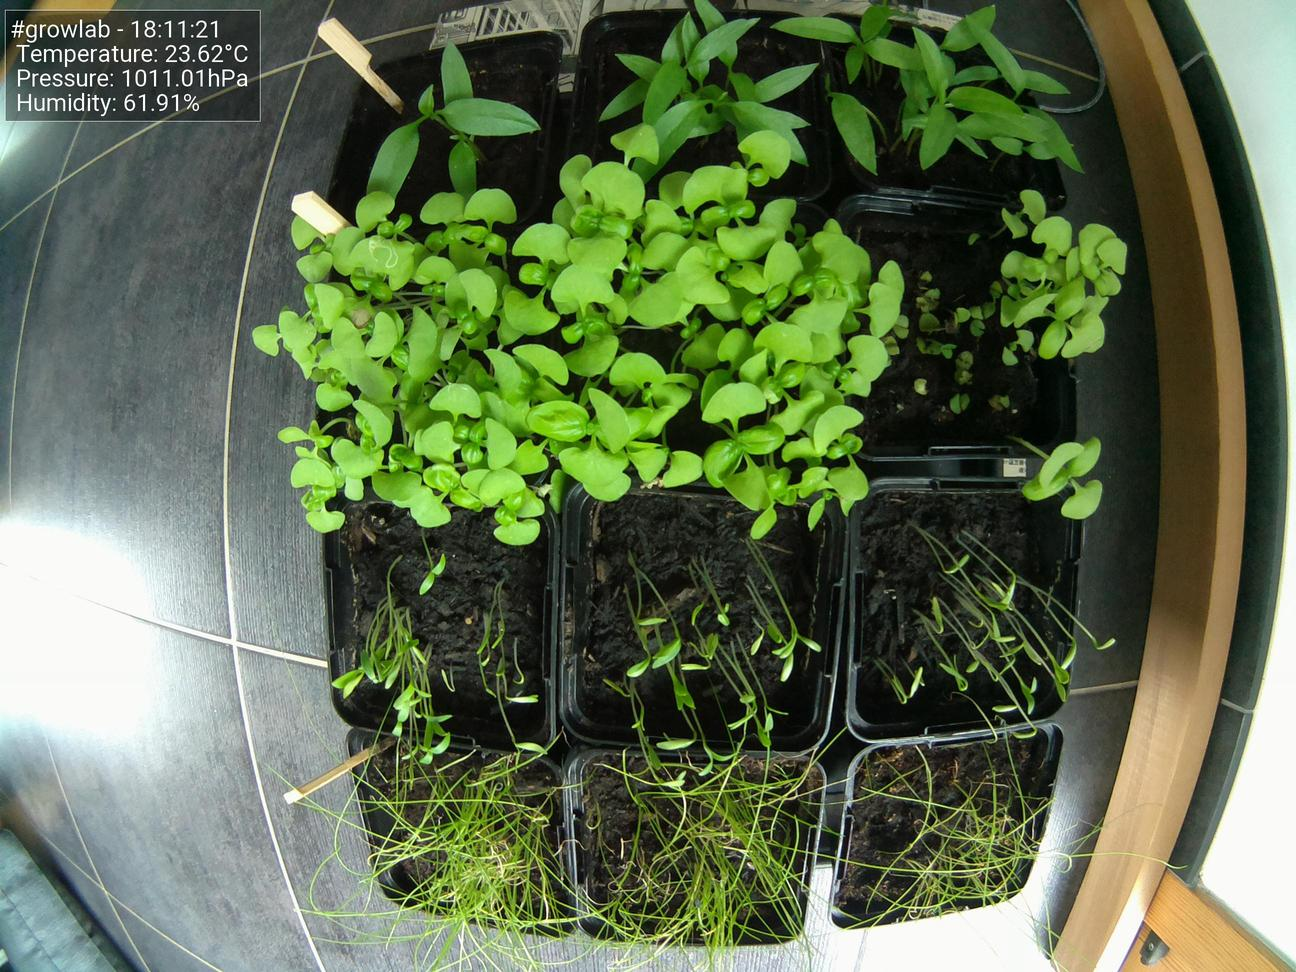
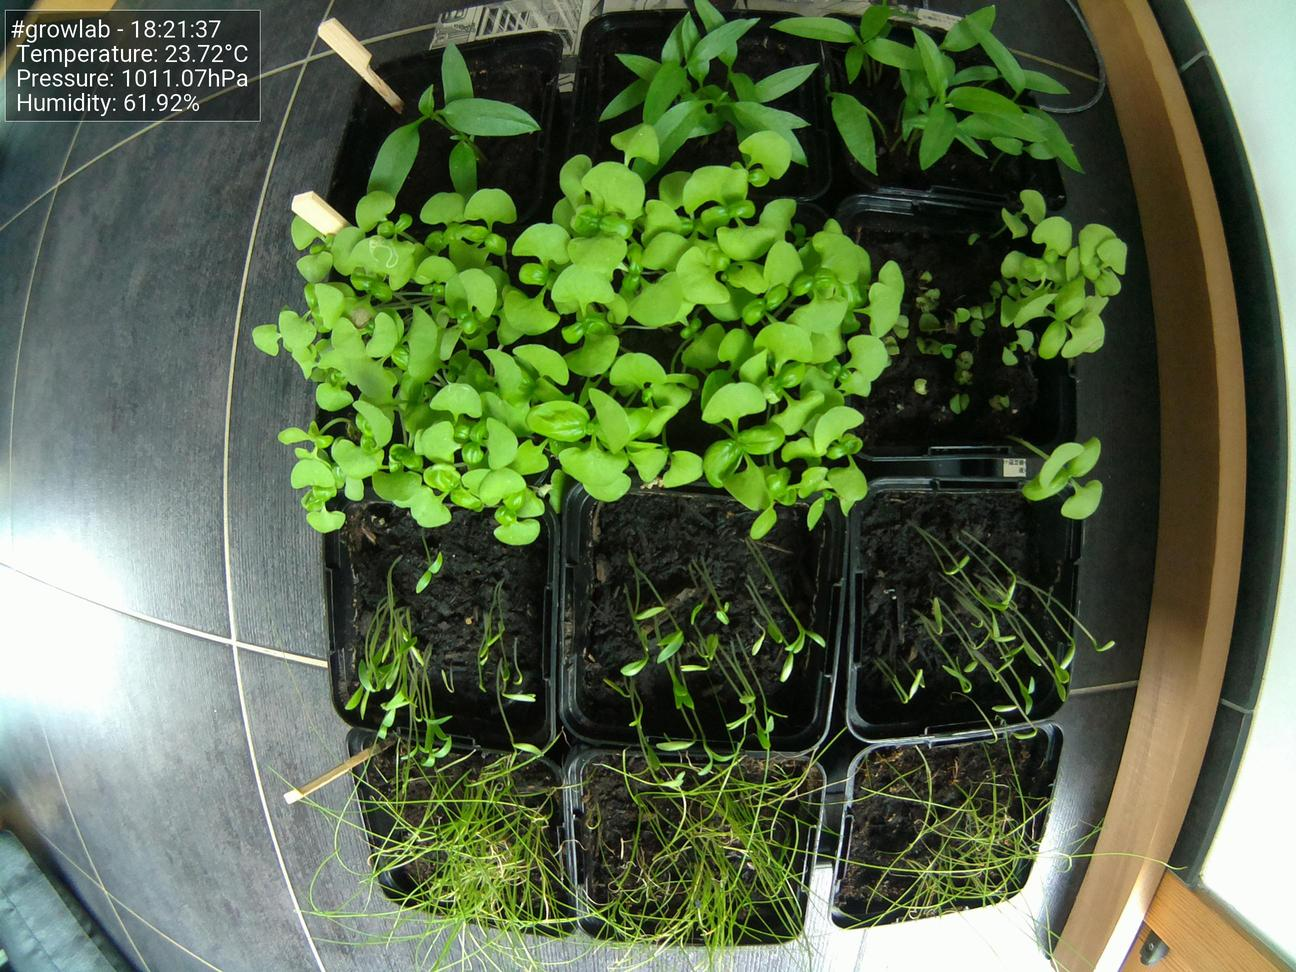
Update images at Fri 18 Jun 18:21:46 CEST 2021

diff --git a/docs/index.html b/docs/index.html
@@ -47,19 +47,19 @@
                         <tbody>
                             <tr>
                                 <td>Time</td>
-                                <td>18:11:21</td>
+                                <td>18:21:37</td>
                             </tr>
                             <tr>
                                 <td>Temperature</td>
-                                <td>23.62°C</td>
+                                <td>23.72°C</td>
                             </tr>
                             <tr>
                                 <td>Humidity</td>
-                                <td>61.91%</td>
+                                <td>61.92%</td>
                             </tr>
                             <tr>
                                 <td>Pressure</td>
-                                <td>1011.01hPa</td>
+                                <td>1011.07hPa</td>
                             </tr>
                         </tbody>
                     </table>
@@ -67,7 +67,7 @@
 
                 <h5>Latest image</h5>
                 <div style="width: 85%;">
-                            <img class="figure-img img-fluid rounded" src="./preview.jpg?uid=1624032690.1545484">
+                            <img class="figure-img img-fluid rounded" src="./preview.jpg?uid=1624033306.058908">
                 </div>
             </div>
         </div>
